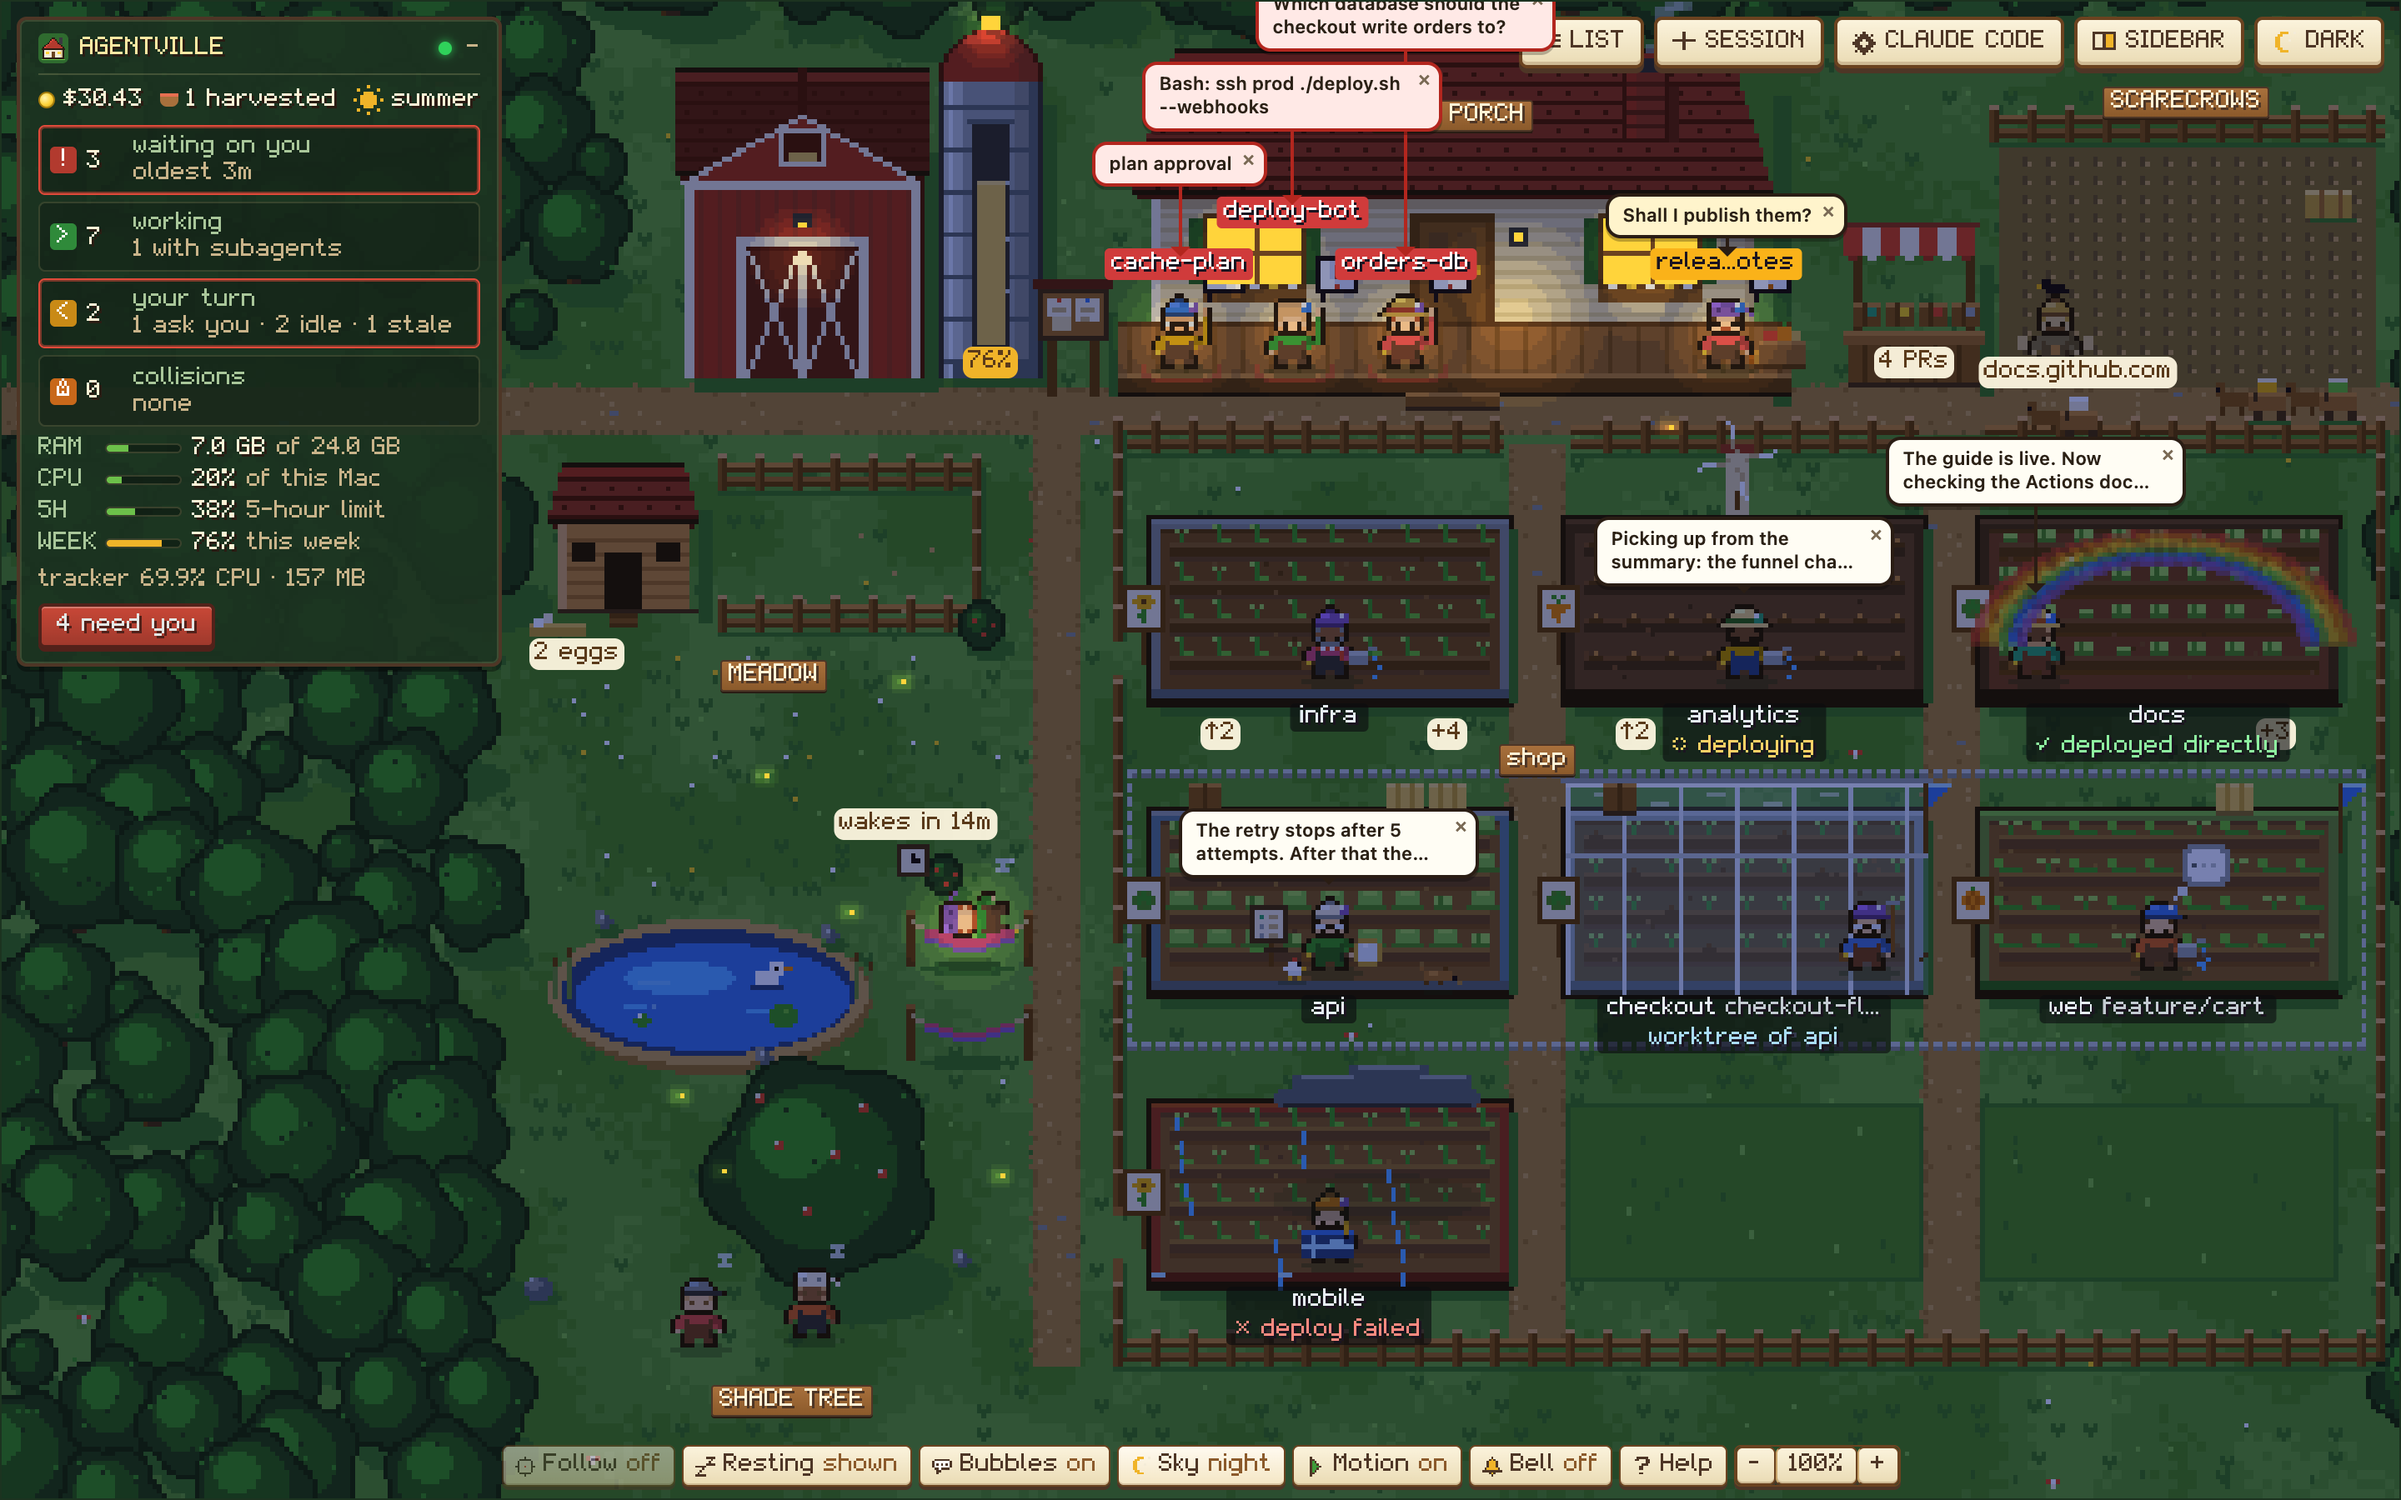
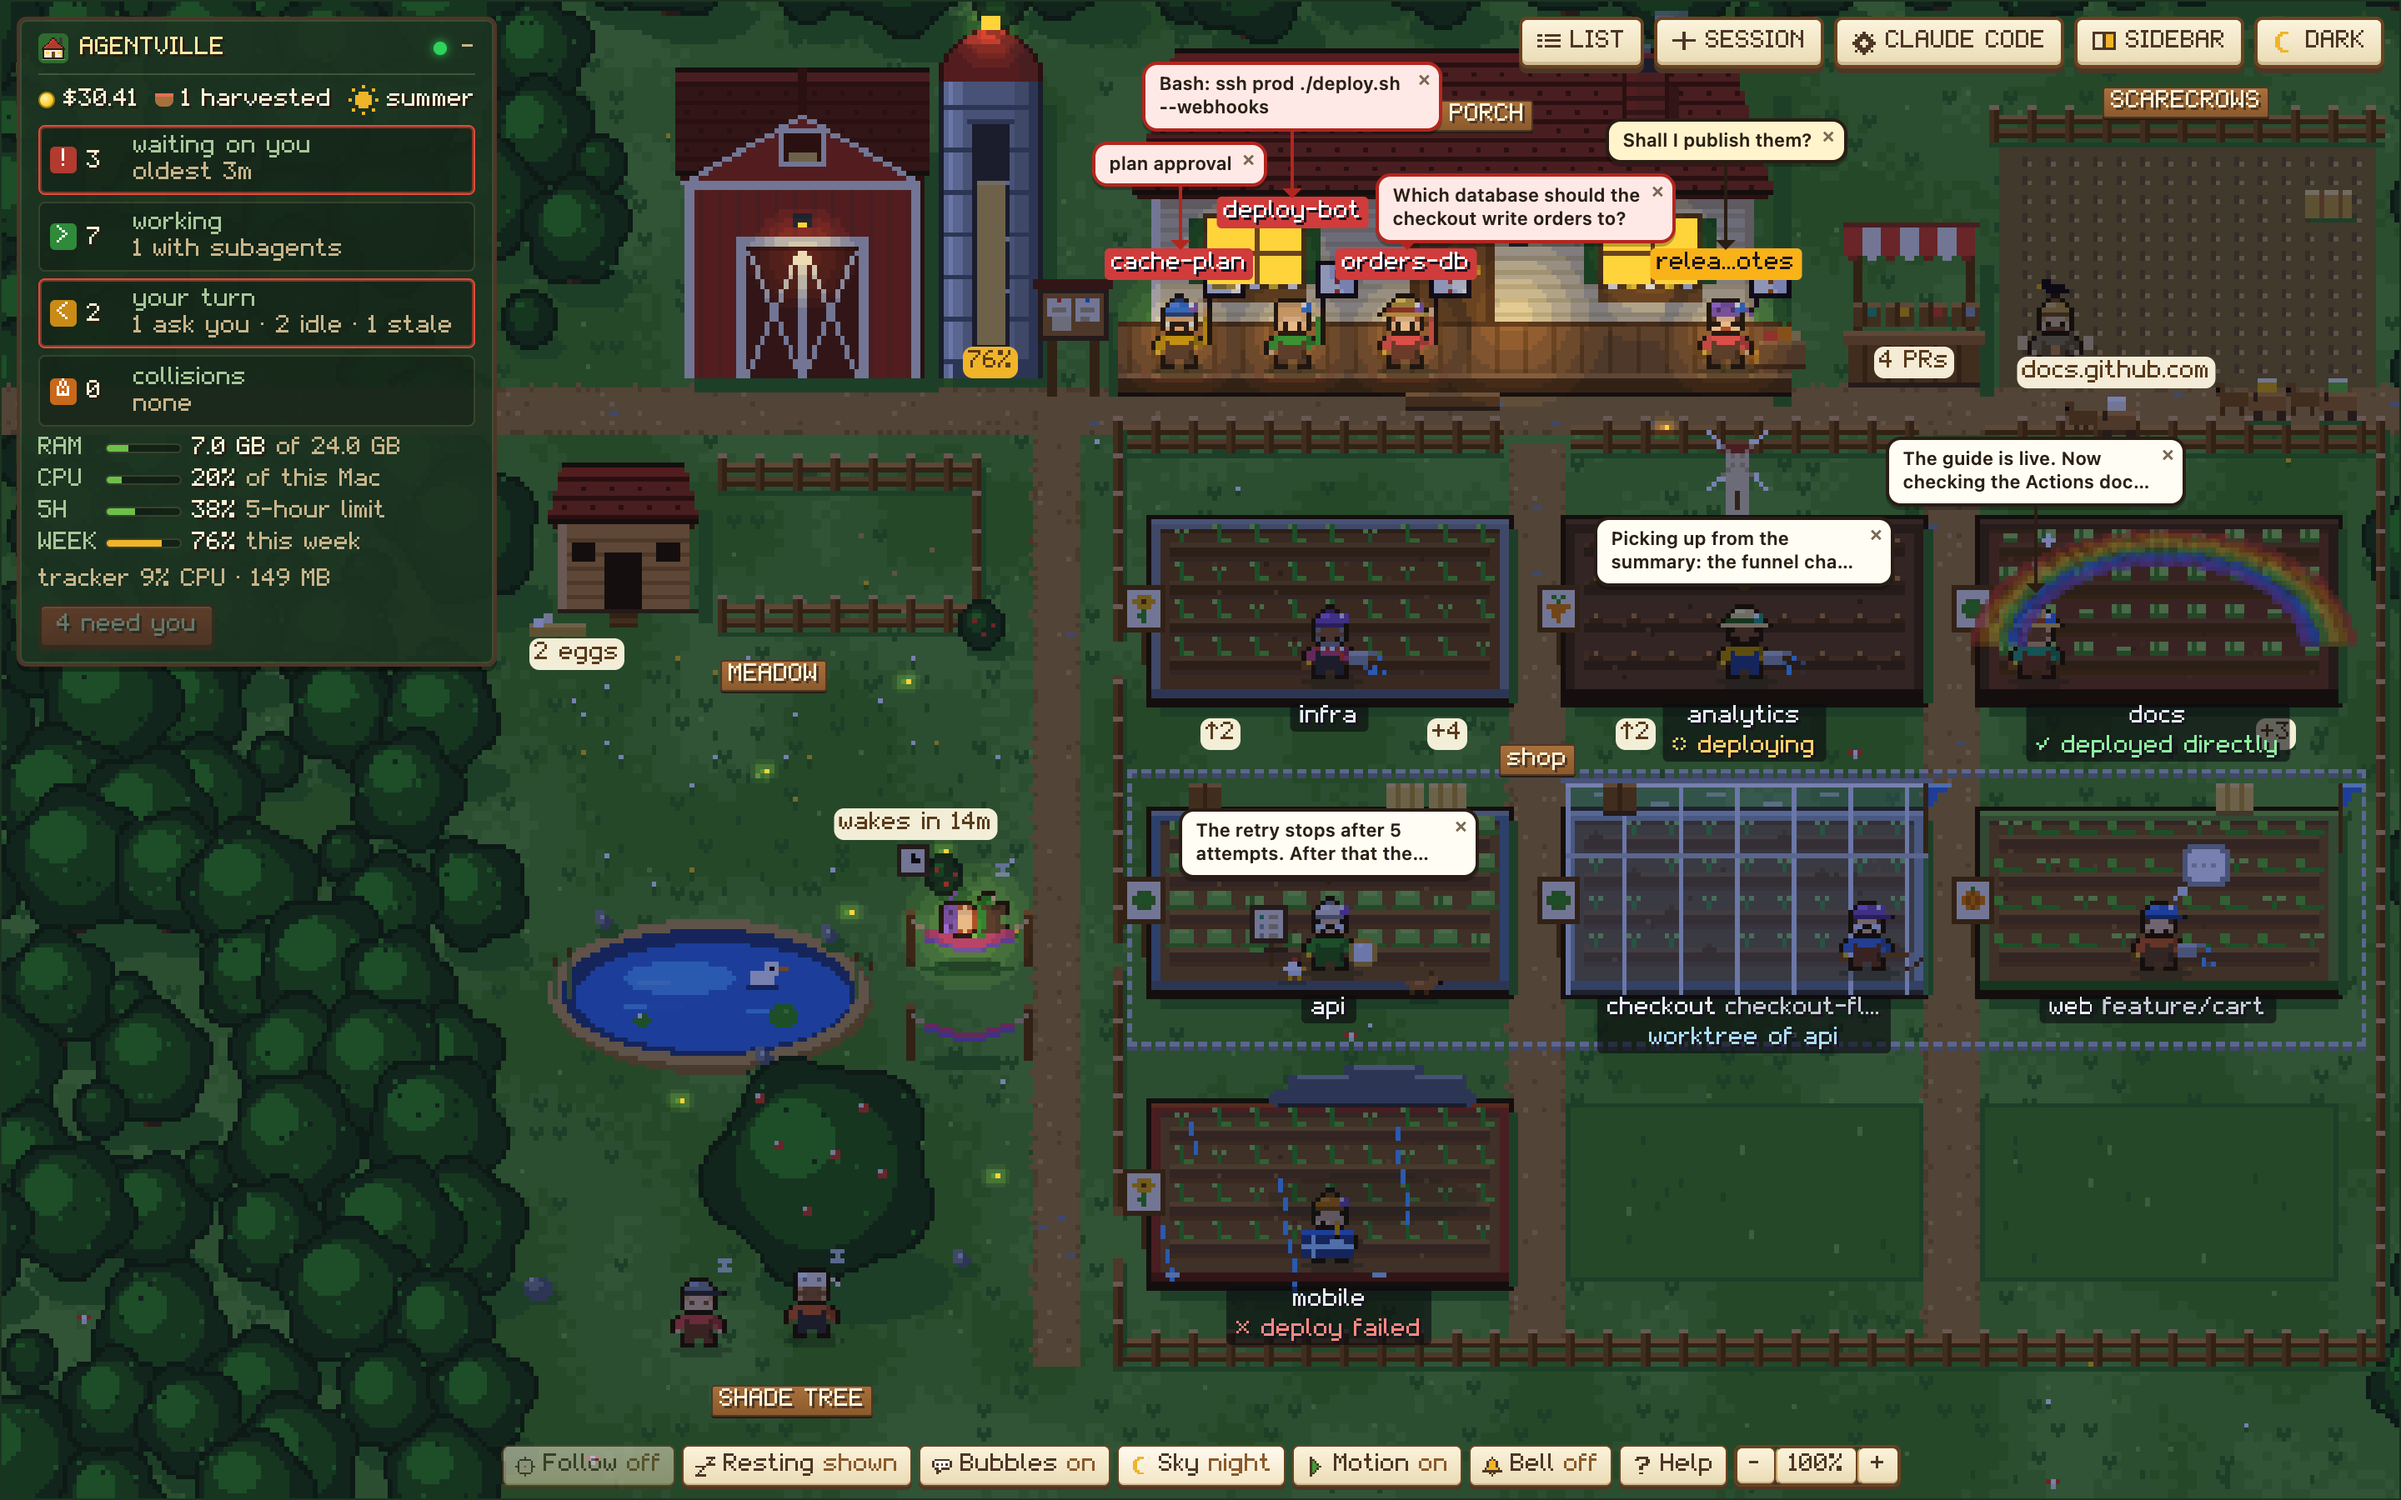
Farm: a bubble with no room above moves aside, and stays in view
With three or more farmers on the porch, bubbles that covered each other
were stacked upward with no limit, so the top ones ran off the top of the
farm or sat under the buttons there. Now, when moving a bubble up would
take it past the farm's top edge, it goes to the nearest free spot to one
side, at its own height or lower down to its farmer's feet, and its line
slants across to the farmer's name, ending with the arrow. At 100% the
panel and the buttons lying over the farm count as taken space too, and
no bubble crosses the farm's left or right edge.

A bubble's spot is measured from its farmer's name tag as drawn, so it
sits just over the name instead of overlapping it and being lifted.

The UI test now checks, in a 1100x640 window as well, that every bubble
is inside the farm's frame, that none covers another or a name, and that
none lies under the panel or the buttons. README describes where bubbles
go; the docs pictures are taken again.

Claude-Session: https://claude.ai/code/session_01X3VHXfwwEw9AsnqAQN3Z8V

diff --git a/web/farm.js b/web/farm.js
@@ -1901,6 +1901,7 @@
     let panelOpen = stored('tracker-farm-panel') !== 'folded'; // the farm's panel: counts and meters, or folded to its title // a chime and a desktop notice when an agent starts waiting (the page rings it)
     const moverEls = new Map(); // labels that move: key → element
     let dlg = null, mini = null; // the buildings' dialog; the minimap shown while zoomed in
+    let hudBoxes = []; // the panel and buttons lying over the farm, in the frame's coordinates: bubbles keep clear of them
     const resting = f => f.state === 'idle' || f.state === 'stale';
     let glide = null; // a zoom easing in: { from: scale, start, ox, oy }
     let pad = { l: 0, r: 0, t: 0, b: 0 }; // the frame's spare room, in world pixels: more forest all round
@@ -1959,6 +1960,10 @@
     function placeMini() {
       const tools = hudEl?.querySelector('.px-tools');
       if (mini && tools) mini.style.bottom = `${tools.offsetHeight + 16}px`;
+      if (!hudEl || !viewEl) return;
+      const v = viewEl.getBoundingClientRect(); // and where the panel and buttons lie, for the bubbles
+      hudBoxes = [...hudEl.children].map(el => el.getBoundingClientRect()).filter(r => r.width && r.height)
+        .map(r => ({ left: r.left - v.left, right: r.right - v.left, top: r.top - v.top, bottom: r.bottom - v.top }));
     }
     /**
      * Zoom changes the farm inside the frame, never the frame. The farm point under `at` (a point of
@@ -2105,12 +2110,16 @@
         s.w = null; // measured again
       }
       s.x = Math.round(b.x * cs);
-      s.bottom = Math.round((b.y - th.SH * SC - 3 - b.lift) * cs) - (b.shown ? 18 : 2); // just above its farmer's name tag, or its head
+      s.bottom = Math.round((b.y - th.SH * SC - 3 - b.lift) * cs) - (b.shown ? (b.tagH || 15) + 3 : 2); // just above its farmer's name tag, or its head
+      s.reach = b.shown ? Math.max(0, (b.tagW || 0) / 2 - 4) : 0; // how far along the tag a line from the side may end
+      s.foot = Math.round(b.y * cs);
       s.seen = true;
     }
     /**
      * Keeps speech bubbles off each other and off name tags: from left to right, a bubble that
-     * would land on one already placed is lifted above it, with a line down to its farmer.
+     * would land on one already placed is lifted above it, with a line down to its farmer. Where
+     * that would lift it past the farm's top edge, it moves sideways instead, to the nearest free
+     * spot at its own height, and its line slants across to its farmer.
      */
     function layoutBubbles() {
       const placed = [];
@@ -2123,18 +2132,54 @@
       const list = [...says.values()].filter(s => s.seen);
       for (const s of list) if (s.w == null) { s.w = s.el.offsetWidth; s.h = s.el.offsetHeight; }
       list.sort((p, q) => p.x - q.x || q.bottom - p.bottom);
+      // The farm's edges in the overlay's coordinates: the stage cuts off anything past them.
+      const edge = { top: -pad.t * cs + 2, left: -pad.l * cs + 2, right: (W + pad.r) * cs - 2 };
+      if (zoom <= 1 && viewEl) { // the whole farm in view: keep clear of the panel and the buttons lying over it
+        const stage = canvas.parentElement, dx = viewEl.scrollLeft - stage.offsetLeft - pad.l * cs, dy = viewEl.scrollTop - stage.offsetTop - pad.t * cs;
+        for (const r of hudBoxes) placed.push({ left: r.left + dx, right: r.right + dx, top: r.top + dy, bottom: r.bottom + dy });
+      }
+      const hitAt = (left, bottom, s) => placed.find(r => left < r.right + 3 && left + s.w > r.left - 3 && bottom - s.h < r.bottom + 3 && bottom > r.top - 3);
       list.forEach((s, i) => {
-        const left = s.x - s.w / 2;
-        let bottom = s.bottom;
+        const home = Math.max(edge.left, Math.min(s.x - s.w / 2, edge.right - s.w));
+        let left = home, bottom = s.bottom;
         for (let guard = 0; guard < 30; guard++) {
-          const hit = placed.find(r => left < r.right + 3 && left + s.w > r.left - 3 && bottom - s.h < r.bottom + 3 && bottom > r.top - 3);
+          const hit = hitAt(left, bottom, s);
           if (!hit) break;
           bottom = hit.top - 6;
         }
+        if (bottom - s.h < edge.top) { // no room above: the nearest free spot to one side, at its height or lower, down to its farmer's feet
+          const slide = (dir, row) => {
+            let l = home;
+            for (let guard = 0; guard < 30; guard++) {
+              const hit = hitAt(l, row, s);
+              if (!hit) return l;
+              l = dir > 0 ? hit.right + 4 : hit.left - 4 - s.w;
+              if (l < edge.left || l + s.w > edge.right) return null;
+            }
+            return null;
+          };
+          let best = null;
+          for (let row = Math.max(s.bottom, edge.top + s.h); row <= Math.max(s.bottom, s.foot); row += 6) {
+            for (const dir of [1, -1]) {
+              const l = slide(dir, row), cost = l == null ? Infinity : Math.abs(l - home) + 2 * (row - s.bottom);
+              if (cost < (best?.cost ?? Infinity)) best = { l, row, cost };
+            }
+          }
+          if (best) { left = best.l; bottom = best.row; } else bottom = edge.top + s.h; // nowhere free: kept in, over the others
+        }
         placed.push({ left, right: left + s.w, top: bottom - s.h, bottom });
-        s.el.style.setProperty('--lead', `${s.bottom - bottom}px`);
-        s.el.style.zIndex = String(40 - Math.min(i, 30) + (s.bottom - bottom > 0 ? 0 : 10)); // lifted ones sit behind
-        s.el.style.transform = `translate(${Math.round(left)}px, ${Math.round(bottom - s.h)}px)`;
+        // Its line leaves from its bottom edge when it is over its farmer, else from the side nearer it
+        // to the nearest end of the farmer's name, and the arrow's tip touches just over it.
+        const top = bottom - s.h, ty = s.bottom + 4, under = s.x >= left + 10 && s.x <= left + s.w - 10;
+        const px = under ? s.x : s.x < left ? left + 1 : left + s.w - 1, py = under ? bottom - 2 : Math.max(top + 8, Math.min(ty, bottom - 8));
+        const tx = under ? s.x : Math.max(s.x - s.reach, Math.min(px, s.x + s.reach));
+        const lead = Math.max(0, Math.hypot(tx - px, ty - py) - 6), turn = under ? 0 : Math.atan2(px - tx, ty - py);
+        s.el.style.setProperty('--lx', `${Math.round(px - left - 2)}px`);
+        s.el.style.setProperty('--ly', under ? '100%' : `${Math.round(py - top - 2)}px`);
+        s.el.style.setProperty('--lead', `${Math.round(lead)}px`);
+        s.el.style.setProperty('--turn', `${turn.toFixed(3)}rad`);
+        s.el.style.zIndex = String(40 - Math.min(i, 30) + (lead > 0 ? 0 : 10)); // moved ones sit behind
+        s.el.style.transform = `translate(${Math.round(left)}px, ${Math.round(top)}px)`;
       });
     }
     function addLog(f, text) {

diff --git a/web/index.html b/web/index.html
@@ -484,8 +484,8 @@ html[data-view="farm"] .banner.show { position: fixed; top: 10px; left: 50%; tra
 .px-view.panning, .px-view.panning * { cursor: grabbing !important; user-select: none; }
 .px-stage { position: relative; flex: none; margin: auto; overflow: clip; } /* centred, yet scrollable all round when zoomed in; a label past the farm's edge (a cart off to town) is cut off, never makes the frame scroll */
 .px-say { position: absolute; left: 0; top: 0; z-index: 2; width: max-content; max-width: 180px; padding: 4px 19px 5px 8px; background: #fffdf4; color: #2b2116; border: 2px solid #2a1d14; border-radius: 9px; font: 600 11px/1.3 system-ui, sans-serif; pointer-events: auto; cursor: pointer; box-shadow: 0 2px 0 rgba(0, 0, 0, .25); }
-.px-say::before { content: ''; position: absolute; left: 50%; top: 100%; width: 2px; height: var(--lead, 0px); margin-left: -1px; background: #2a1d14; } /* a lifted bubble's line down to its farmer */
-.px-say::after { content: ''; position: absolute; left: 50%; top: calc(100% + var(--lead, 0px)); margin-left: -6px; border: 6px solid transparent; border-top-color: #2a1d14; border-bottom: 0; }
+.px-say::before { content: ''; position: absolute; left: var(--lx, 50%); top: var(--ly, 100%); width: 2px; height: var(--lead, 0px); margin-left: -1px; background: #2a1d14; transform: rotate(var(--turn, 0rad)); transform-origin: 1px 0; } /* a moved bubble's line to its farmer: down, or slanting when it stands to one side */
+.px-say::after { content: ''; position: absolute; left: var(--lx, 50%); top: var(--ly, 100%); margin-left: -6px; border: 6px solid transparent; border-top-color: #2a1d14; border-bottom: 0; transform: rotate(var(--turn, 0rad)) translateY(var(--lead, 0px)); transform-origin: 6px 0; }
 .px-say span { display: -webkit-box; -webkit-line-clamp: 2; -webkit-box-orient: vertical; overflow: hidden; }
 .px-say:hover { z-index: 60 !important; }
 .px-say:hover span { -webkit-line-clamp: 8; }
@@ -498,7 +498,7 @@ html[data-view="farm"] .banner.show { position: fixed; top: 10px; left: 50%; tra
 .px-say-min { position: absolute; left: 0; top: 0; z-index: 2; pointer-events: auto; }
 .px-say-min button { display: block; padding: 1px 5px 2px; background: #fffdf4; border: 2px solid #2a1d14; border-radius: 9px; font: 12px/1.2 system-ui, sans-serif; cursor: pointer; box-shadow: 0 2px 0 rgba(0, 0, 0, .25); }
 .px-say-min button:hover { background: #fff4cc; }
-.px-say-min::before { content: ''; position: absolute; left: 50%; top: 100%; width: 2px; height: var(--lead, 0px); margin-left: -1px; background: #2a1d14; }
+.px-say-min::before { content: ''; position: absolute; left: var(--lx, 50%); top: var(--ly, 100%); width: 2px; height: var(--lead, 0px); margin-left: -1px; background: #2a1d14; transform: rotate(var(--turn, 0rad)); transform-origin: 1px 0; }
 .px-say-min.st-waiting button { background: #ffe9e6; border-color: #b3261e; }
 .px-stage canvas { display: block; image-rendering: pixelated; cursor: pointer; }
 .px-ov { position: absolute; inset: 0; pointer-events: none; }

diff --git a/README.md b/README.md
@@ -392,9 +392,13 @@ grass, so the fields in use stand out. When the page opens, the fields move up i
 the order they had, so empty rows close up. The yard down the left holds the henhouse, the meadow,
 the pond and the shade tree, and a forest surrounds the farm.
 
-**Names.** On the porch a farmer's tag is just its name, and neighbouring tags sit at two heights so
-none covers another. A name that is too long is shortened in the middle (`inventor…agement`);
-hover over it for the whole name.
+**Names and bubbles.** On the porch a farmer's tag is just its name, and neighbouring tags sit at
+two heights so none covers another. A name that is too long is shortened in the middle
+(`inventor…agement`); hover over it for the whole name. A farmer's speech bubble sits just over its
+name. When two bubbles would cover each other, one moves up with a line down to its farmer. If
+there is no room above, as on a busy porch at the top of a small window, it moves to the side
+instead and its line slants across to the name. Bubbles stay inside the farm, and at 100% they
+keep clear of the panel and the buttons too.
 
 **Reading the farm.** The **i** button opens the full legend, including every tool a farmer
 can hold.
